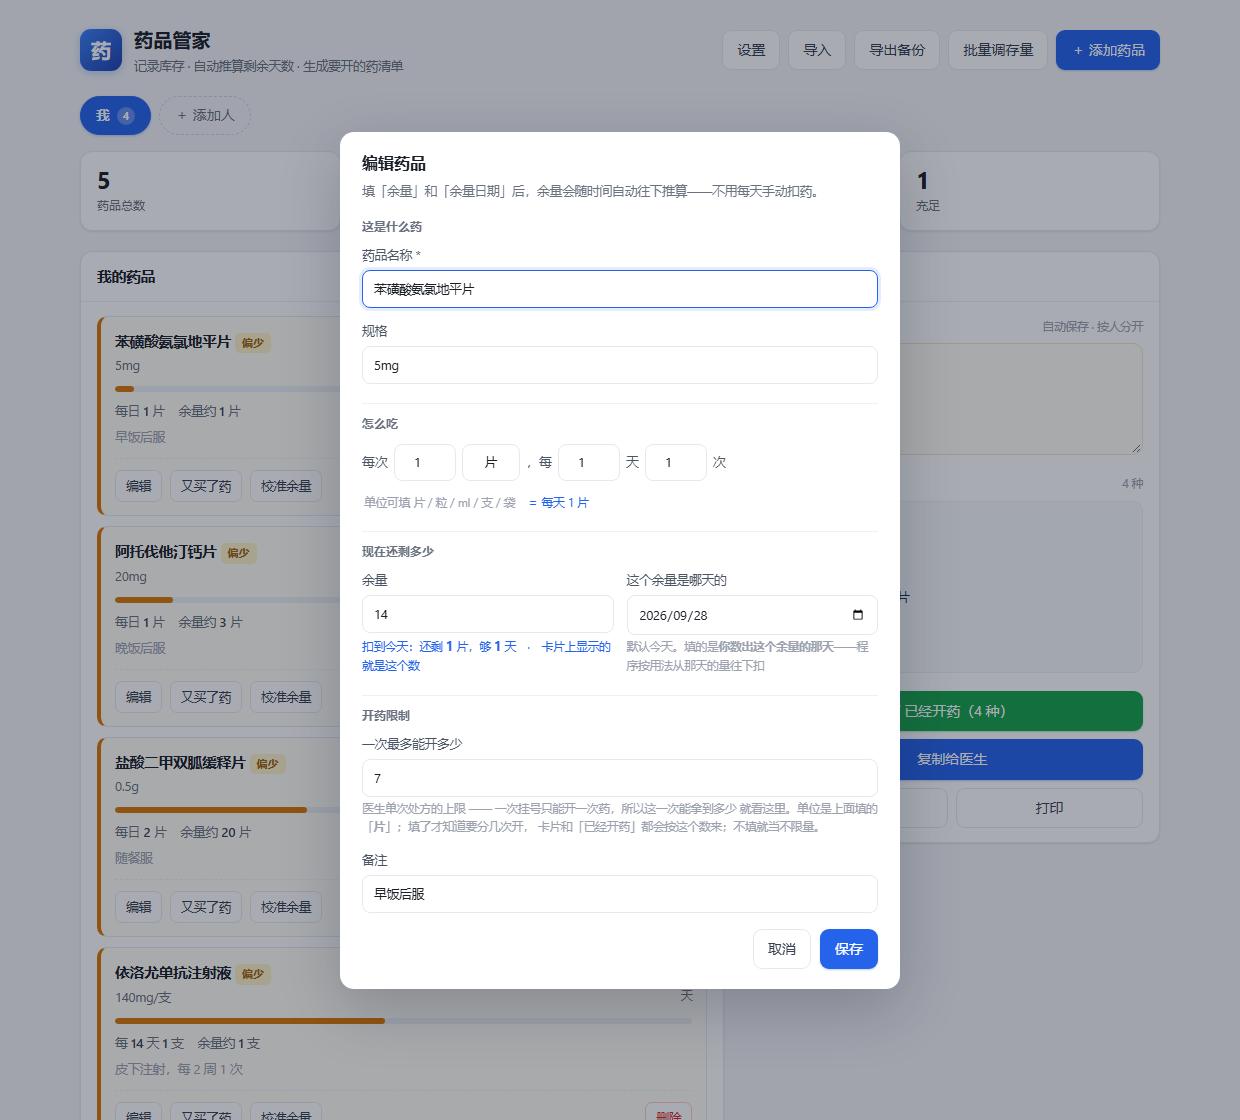
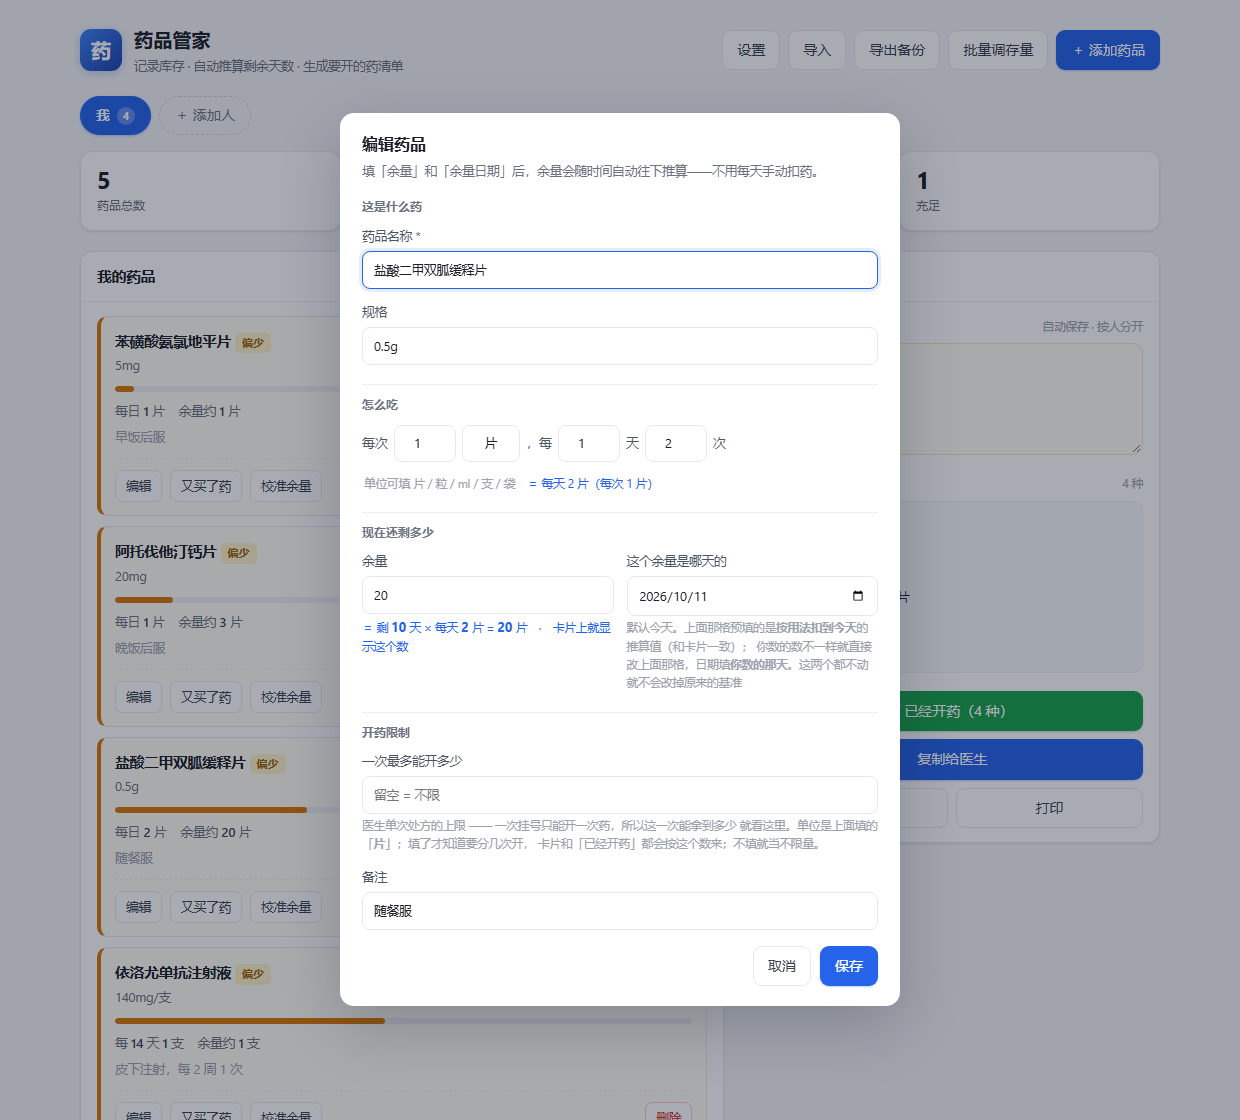
sync: 2026-10-11 16:36

Changed region(s): [[0.2758, 0.0938, 0.7355, 0.625], [0.2758, 0.625, 0.7048, 0.8438], [0.2758, 0.8125, 0.7355, 0.9062]]

diff --git a/index.html b/index.html
@@ -357,7 +357,8 @@ dialog::backdrop{background:rgba(15,23,42,.36)}
         </label>
         <label>这个余量是哪天的
           <input name="stockDate" type="date">
-          <span class="hintline">默认今天。填的是<b>你数出这个余量的那天</b>——程序按用法从那天的量往下扣</span>
+          <span class="hintline">默认今天。上面那格预填的是<b>按用法扣到今天</b>的推算值（和卡片一致）；
+            你数的数不一样就直接改上面那格，日期填<b>你数的那天</b>。这两个都不动就不会改掉原来的基准</span>
         </label>
 
         <div class="sec-title">开药限制</div>
@@ -631,7 +632,13 @@ function dosesUsed(m){
   if(c.times <= 0) return 0;
   return Math.floor(daysSince(m.stockDate) / c.days) * c.times;
 }
-// 当前推算余量 = 基准余量 - 已经用掉的次数 × 每次用量
+// 当前推算余量 = 基准余量 - 已经用掉的次数 × 每次用量。
+// ★ 这是**唯一的口径**：卡片上的「余量约 X」、开药弹窗的「现有约 X」、「又买了药 / 校准余量」
+//   的推算值、编辑弹窗里预填的「余量」，全都用这一个数（2026-10-11 用户要求：把卡片上的数和
+//   编辑里的数同步）。它的值就是**你今天实际还剩多少**，不去取整、不丢零头。
+//   「剩 N 天」是它除以每天用量后向下取整的结果，所以当天数写整数时两者不一定正好乘得回去
+//   （4 片 / 每天 2 片 → 正好 2 天；5 片 / 每天 2 片 → 写 2 天多）——
+//   编辑弹窗里会把算式或「多」字直接写出来，不让人猜。
 function stockNow(m){
   const base = num(m.stockBase);
   if(dailyUse(m) <= 0) return round2(base);           // 没设用法就不递减
@@ -898,8 +905,12 @@ function renderNote(force){
 }
 
 /* -------------------- 操作 -------------------- */
+// 打开编辑时记下「原来的基准」和「预填进去的值」，保存时用来判断你动没动这一节（见 submitMed）
+let editAnchor = null;
+
 function openEditor(id){
   editingId = id || null;
+  editAnchor = null;
   const f = $('#formMed');
   f.reset();
   if(id){
@@ -914,8 +925,18 @@ function openEditor(id){
     // timesPerDay 是改名前的老字段，老存档读进来照样对
     f.timesPerCycle.value = (m.timesPerCycle != null) ? m.timesPerCycle
       : (m.timesPerDay != null ? m.timesPerDay : 1);
-    f.stockBase.value = m.stockBase != null ? m.stockBase : 0;
-    f.stockDate.value = m.stockDate || todayStr();
+    // ★ 2026-10-11 用户要求：「现在还剩多少」这一节要显示**扣到今天**的数（和卡片同一个数），
+    //   而不是你当初数出来的基准数 —— 否则点开编辑看见 14、卡片上写 2 天，怎么算都对不上。
+    //   原来那个基准（量 + 那天）没有丢：存进 editAnchor，只要你不改这两格，保存时原样写回。
+    const preQty = stockNow(m);
+    editAnchor = {
+      base: m.stockBase != null ? m.stockBase : 0,
+      date: m.stockDate || todayStr(),
+      pre: String(preQty),
+      preDate: todayStr()
+    };
+    f.stockBase.value = preQty;
+    f.stockDate.value = todayStr();
     f.rxMax.value = num(m.rxMax) > 0 ? m.rxMax : '';
     f.note.value = m.note || '';
   } else {
@@ -963,11 +984,10 @@ function syncDosePreview(){
 }
 
 // 「现在还剩多少」下面那行实时结果。
-// ★ 为什么要这一行（2026-10-11 用户报的 bug）：
-//   这里填的「余量 + 日期」是**你当时数出来的基准数**，而卡片右上角的天数 / 卡片上的
-//   「余量约 X」是按用法**扣到今天**的结果 —— 两个数天然不等。用户点开编辑看见 14、
-//   卡片却写 1 天，就以为程序算错了。把这句「扣到今天还剩 X、够 Y 天（卡片上就是这个数）」
-//   当场算给用户看，两个口径当场对上，不用他自己换算。
+// ★ 为什么要有这一行（2026-10-11 用户两次报 bug 后定稿）：
+//   用户对账的方式是**乘回去** —— 「剩 2 天、每次 2 片、每天 3 次，那余量应该是 2×2×3=12」。
+//   所以这一行必须和卡片写同一个数（预填进上面那格的就是它），能整除时还把算式**摆出来**，
+//   不能整除时明写「N 天多一点」，绝不出现「卡片 5 片 / 这里说 2×2=4」这种自相矛盾的摆法。
 function syncStockPreview(){
   const f = $('#formMed');
   const el = $('#stockPreview');
@@ -982,7 +1002,8 @@ function syncStockPreview(){
     stockBase: base,
     stockDate: f.stockDate.value || todayStr()
   };
-  if(dailyUse(m) <= 0){
+  const d = dailyUse(m);
+  if(d <= 0){
     el.textContent = '没设用法 → 不会自动往下扣，卡片上直接显示这个数';
     return;
   }
@@ -991,9 +1012,26 @@ function syncStockPreview(){
     return;
   }
   const st = stockNow(m);
-  const dl = daysLeft(m);
-  el.innerHTML = '扣到今天：还剩 <b>' + fmtNum(st) + '</b> ' + esc(u)
-    + '，够 <b>' + fmtDays(dl) + '</b> 天　·　卡片上显示的就是这个数';
+  const days = st / d;
+  const whole = Math.max(0, Math.floor(days + 1e-9));
+  const c = cycle(m);
+  // 正好是整天份 → 把算式摆出来给你核：剩 2 天 × 每天 2 片 = 4 片
+  // 不是整天份 → 老实写「N 天多」，不让两个数看起来互相打架
+  const exactMult = Math.abs(st - whole * d) < 1e-6;
+  let line;
+  if(days < 1){
+    line = '扣到今天：还剩 <b>' + fmtNum(st) + '</b> ' + esc(u) + '（不够 1 整天）';
+  } else if(exactMult){
+    line = (c.days === 1)
+      ? '＝ 剩 <b>' + whole + '</b> 天 × 每天 <b>' + fmtNum(round2(d)) + '</b> ' + esc(u)
+        + ' = <b>' + fmtNum(st) + '</b> ' + esc(u)
+      : '＝ 剩 <b>' + whole + '</b> 天 ÷ <b>' + c.days + '</b> 天 × <b>'
+        + fmtNum(num(m.perDose) * c.times) + '</b> ' + esc(u) + ' = <b>' + fmtNum(st) + '</b> ' + esc(u);
+  } else {
+    line = '扣到今天：还剩 <b>' + fmtNum(st) + '</b> ' + esc(u)
+      + '，够 <b>' + whole + '</b> 天多一点（除下来不是整天）';
+  }
+  el.innerHTML = line + '　·　卡片上就显示这个数';
 }
 
 function submitMed(e){
@@ -1017,11 +1055,25 @@ function submitMed(e){
 
   if(editingId){
     const i = meds.findIndex(function(x){ return x.id === editingId; });
-    if(i >= 0) meds[i] = Object.assign({}, meds[i], obj);
+    if(i >= 0){
+      const next = Object.assign({}, meds[i], obj);
+      // ★ 「余量 / 日期」两格没被动过 → 把**原来的基准**原样写回。
+      //   为什么必须这样：那两格预填的是「扣到今天」的推算值，直接存下去会顺带把基准日滚到今天，
+      //   不满一天的零头会被抹掉，间隔用药的相位（每 14 天一次该从哪天算）也会整体平移。
+      //   只在「你确实改了余量或日期」时才按你填的存。
+      if(editAnchor
+         && Math.abs(num(f.stockBase.value) - num(editAnchor.pre)) < 1e-9
+         && (f.stockDate.value || todayStr()) === editAnchor.preDate){
+        next.stockBase = editAnchor.base;
+        next.stockDate = editAnchor.date;
+      }
+      meds[i] = next;
+    }
   } else {
     obj.id = uid();
     meds.push(obj);
   }
+  editAnchor = null;
   save(); render();
   $('#dlgMed').close();
 }
@@ -1118,7 +1170,8 @@ function calibMed(id){
   if(!m) return;
   const unit = m.unit || '片';
   const cur = stockNow(m);
-  const input = prompt('今天实际还剩多少 ' + unit + '？\n\n（系统推算 ' + fmtNum(cur) + ' ' + unit + '，改成你数出来的数）', String(cur));
+  const input = prompt('今天实际还剩多少 ' + unit + '？\n\n（系统推算 ' + fmtNum(cur) + ' ' + unit
+    + '，改成你数出来的数）', String(cur));
   if(input === null) return;
   const v = Number(input);
   if(!isFinite(v) || v < 0){ alert('请输入 0 或正数'); return; }

diff --git a/_check/test_rxcap.py b/_check/test_rxcap.py
@@ -292,59 +292,124 @@ PROBE = r"""
   ck('批量加完后 stockNow == stockBase（基准日=今天，没被重复扣）',
      byName('维生素D滴剂').stockBase === stockNow(byName('维生素D滴剂')), '');
 
-  // ---- 8. ★ 2026-10-11 用户报的 bug：卡片右上角的天数 / 余量，与点「编辑」后
-  //      「现在还剩多少」那节看到的数必须对得上 ----
-  // 根因：那里存的是**你当时数出来的基准数 + 那天**，卡片上是**按用法扣到今天**的结果，
-  //   两个数天生不等；而界面从来没把「扣到今天是多少」显示出来 → 用户以为程序算错了。
-  // 修法：加一行实时结果 #stockPreview，走的是和卡片完全同一个函数（stockNow/daysLeft）。
+  // ---- 8. ★ 2026-10-11 用户两次报 bug 后的定稿口径 ----
+  // 用户原话：「卡片上显示的 每日2片 余量约4片 这个4片就是正确的，你把卡片上的数和编辑里的数同步」。
+  // 也就是说：**卡片上的数（stockNow）是唯一口径**，编辑弹窗要预填它、显示同一个数；
+  // 弹窗里原来显示的是「你当初数出来的基准数」，那才是对不上的根源。
+  // 能整除时把算式摆出来（剩 2 天 × 每天 2 片 = 4 片），不整除时明写「N 天多一点」。
   var demo3 = [
     { name:'编弹窗对账片', spec:'5mg', perDose:1, unit:'片', cycleDays:1, timesPerCycle:1,
       stockBase:14, stockDate:agoD(13) },                        // 扣到今天 = 1 片 / 剩 1 天
+    { name:'每日两片对账', spec:'5mg', perDose:2, unit:'片', cycleDays:1, timesPerCycle:1,
+      stockBase:4, stockDate:todayStr() },                       // 用户举的例子：每日 2 片、4 片 = 2 天
+    { name:'三次两片对账', spec:'5mg', perDose:2, unit:'片', cycleDays:1, timesPerCycle:3,
+      stockBase:12, stockDate:todayStr() },                      // 每次 2 片×每天 3 次 → 12 片 = 2 天
+    { name:'零头对账片', spec:'5mg', perDose:2, unit:'片', cycleDays:1, timesPerCycle:1,
+      stockBase:5, stockDate:todayStr() },                       // 5 片 ÷ 每天 2 片 → 2 天多一点
+    { name:'半天对账片', spec:'5mg', perDose:2, unit:'片', cycleDays:1, timesPerCycle:1,
+      stockBase:1, stockDate:todayStr() },                       // 1 片 < 每天 2 片 → 不够 1 整天
     { name:'没设用法片', spec:'—', perDose:1, unit:'片', cycleDays:1, timesPerCycle:0,
       stockBase:30, stockDate:todayStr() }                       // 没设用法 → 不递减
   ];
   demo3.forEach(function(d){ d.id = uid(); });
   setMeds(demo3); save(); render();
 
-  var c3 = card('编弹窗对账片');
-  var cardDay = c3 ? c3.querySelector('.days .v').textContent.trim() : '(无卡片)';
-  var mtxt = c3 ? c3.querySelector('.med-meta').textContent.replace(/\s+/g, ' ') : '';
-  var mq = mtxt.match(/余量约\s*([\d.]+)/);
-  var cardQty = mq ? mq[1] : '(没匹配到)';
-  ck('卡片右上角天数 = 1（14 片扣 13 天）', cardDay === '1', cardDay);
-  ck('卡片「余量约」= 1', cardQty === '1', cardQty);
+  function mday(name){
+    var c = card(name);
+    return c ? c.querySelector('.days .v').textContent.trim() : '(无卡片)';
+  }
+  function mqty(name){
+    var c = card(name);
+    if(!c) return '(无卡片)';
+    var mt = c.querySelector('.med-meta').textContent.replace(/\s+/g, ' ');
+    var mm = mt.match(/余量约\s*([\d.]+)/);
+    return mm ? mm[1] : '(没匹配到)';
+  }
+  function prevTxt(){
+    var el = q('#stockPreview');
+    return el ? el.textContent.replace(/\s+/g, ' ').trim() : '(无 #stockPreview)';
+  }
 
-  openEditor(byName('编弹窗对账片').id);
+  ck('卡片 对账片 = 1 片 / 1 天（14 片扣 13 天）',
+     mqty('编弹窗对账片') === '1' && mday('编弹窗对账片') === '1',
+     mqty('编弹窗对账片') + ' / ' + mday('编弹窗对账片'));
+  ck('卡片 每日 2 片 · 余量约 4 片 · 2 天（用户说的那个例子）',
+     mqty('每日两片对账') === '4' && mday('每日两片对账') === '2',
+     mqty('每日两片对账') + ' / ' + mday('每日两片对账'));
+  ck('卡片 每次 2 片 × 每天 3 次 · 12 片 · 2 天',
+     mqty('三次两片对账') === '12' && mday('三次两片对账') === '2',
+     mqty('三次两片对账') + ' / ' + mday('三次两片对账'));
+  ck('卡片 5 片 ÷ 每天 2 片 → 2 天（余量如实写 5，不取整）',
+     mqty('零头对账片') === '5' && mday('零头对账片') === '2',
+     mqty('零头对账片') + ' / ' + mday('零头对账片'));
+  ck('卡片 1 片 < 每天 2 片 → 天数写「不足 1」',
+     mday('半天对账片') === '不足 1' && mqty('半天对账片') === '1',
+     mday('半天对账片') + ' / ' + mqty('半天对账片'));
+
+  // --- 8a. 弹窗预填 = 卡片数，并把算式摆出来 ---
+  openEditor(byName('每日两片对账').id);
   var fmed = q('#formMed');
-  var prev = q('#stockPreview') ? q('#stockPreview').textContent.replace(/\s+/g, ' ').trim()
-                                : '(无 #stockPreview)';
-  ck('弹窗里有「现在还剩多少」的实时结果行', !!q('#stockPreview'), prev);
-  ck('弹窗里的「余量」仍是你当时数的基准数（没被偷偷改写）',
-     Math.abs(num(fmed.stockBase.value) - 14) < 1e-9, fmed.stockBase.value);
-  ck('实时结果里的余量 = 卡片的余量', prev.indexOf('还剩 1 片') >= 0, prev);
-  ck('实时结果里的天数 = 卡片的天数', /够\s*1\s*天/.test(prev), prev);
-  ck('实时结果点明「和卡片同一个数」', prev.indexOf('卡片上显示的就是这个数') >= 0, prev);
+  ck('弹窗里有「现在还剩多少」的实时结果行', !!q('#stockPreview'), prevTxt());
+  ck('弹窗「余量」预填 = 卡片上的 4',
+     Math.abs(num(fmed.stockBase.value) - 4) < 1e-9, fmed.stockBase.value);
+  ck('弹窗摆出算式：剩 2 天 × 每天 2 片 = 4 片',
+     /＝\s*剩\s*2\s*天\s*×\s*每天\s*2\s*片\s*=\s*4\s*片/.test(prevTxt()), prevTxt());
+  ck('弹窗点明「卡片上就显示这个数」', prevTxt().indexOf('卡片上就显示这个数') >= 0, prevTxt());
 
-  // 实时性：把「这个余量是哪天的」改成今天，结果必须跟着变成 14 片 / 14 天
-  fmed.stockDate.value = todayStr();
+  openEditor(byName('三次两片对账').id);
+  ck('每次 2 片×每天 3 次：弹窗预填 12 = 卡片 12',
+     Math.abs(num(fmed.stockBase.value) - 12) < 1e-9, fmed.stockBase.value);
+  ck('算式按每天总用量写：剩 2 天 × 每天 6 片 = 12 片',
+     /＝\s*剩\s*2\s*天\s*×\s*每天\s*6\s*片\s*=\s*12\s*片/.test(prevTxt()), prevTxt());
+  q('#dlgMed').close();
+
+  // --- 8b. 只改别的项 → 原来的基准（量 + 那天）原样保留，不许被预填值顶掉 ---
+  openEditor(byName('编弹窗对账片').id);
+  ck('弹窗预填的是扣到今天的 1 片（不是当初的基准 14）',
+     Math.abs(num(fmed.stockBase.value) - 1) < 1e-9, fmed.stockBase.value);
+  fmed.note.value = '只改备注';
+  submitMed({ preventDefault: function(){} });
+  var keep = byName('编弹窗对账片');
+  ck('只改备注 → 基准仍是 14 片 / 13 天前（没被预填值顶掉）',
+     keep.stockBase === 14 && keep.stockDate === agoD(13),
+     keep.stockBase + ' / ' + keep.stockDate);
+
+  // 实时性：把「余量」那格直接改成 14（基准日=今天）→ 算式当场变成 14 片 / 14 天
+  openEditor(byName('编弹窗对账片').id);
+  fmed.stockBase.value = 14;
   syncStockPreview();
-  var prev2 = q('#stockPreview').textContent.replace(/\s+/g, ' ').trim();
-  ck('改成今天 → 实时结果跟着变 14 片 / 14 天',
-     /还剩\s*14\s*片/.test(prev2) && /够\s*14\s*天/.test(prev2), prev2);
-  fmed.stockDate.value = agoD(13);
-  syncStockPreview();
-  ck('改回 13 天前 → 结果复原 1 片 / 1 天',
-     /还剩\s*1\s*片/.test(q('#stockPreview').textContent), q('#stockPreview').textContent);
+  ck('弹窗里改成 14 → 当场变 14 片 / 14 天',
+     /＝\s*剩\s*14\s*天\s*×\s*每天\s*1\s*片\s*=\s*14\s*片/.test(prevTxt()), prevTxt());
+  q('#dlgMed').close();
+
+  // --- 8c. 真改了余量 → 存你填的数，基准日滚到今天 ---
+  openEditor(byName('编弹窗对账片').id);
+  fmed.stockBase.value = 4;
+  submitMed({ preventDefault: function(){} });
+  keep = byName('编弹窗对账片');
+  ck('改了余量 → 存 4 片 / 基准今天',
+     keep.stockBase === 4 && keep.stockDate === todayStr(),
+     keep.stockBase + ' / ' + keep.stockDate);
+  ck('改完卡片同步成 4 片 / 4 天',
+     mqty('编弹窗对账片') === '4' && mday('编弹窗对账片') === '4',
+     mqty('编弹窗对账片') + ' / ' + mday('编弹窗对账片'));
+
+  // --- 8d. 除不尽 / 不足一天：不许摆出对不上的算式 ---
+  openEditor(byName('零头对账片').id);
+  ck('除不尽 → 写「够 2 天多一点」，不摆算式',
+     /够\s*2\s*天多一点/.test(prevTxt()) && prevTxt().indexOf('×') < 0, prevTxt());
+  openEditor(byName('半天对账片').id);
+  ck('不足一天 → 明说「不够 1 整天」',
+     /不够\s*1\s*整天/.test(prevTxt()), prevTxt());
+  q('#dlgMed').close();
 
   // 没设用法：明说「不会自动往下扣」，不能显示成「够 0 天」
   openEditor(byName('没设用法片').id);
-  var prev3 = q('#stockPreview').textContent.replace(/\s+/g, ' ').trim();
-  ck('没设用法 → 明说不自动扣，卡片就是原数', /不会自动往下扣/.test(prev3), prev3);
+  ck('没设用法 → 明说不自动扣，卡片就是原数', /不会自动往下扣/.test(prevTxt()), prevTxt());
   // 新增（还没保存过）的药：给填写提示，不许出现「够 0 天」这种吓人的字
   openEditor(null);
-  var prev4 = q('#stockPreview').textContent.replace(/\s+/g, ' ').trim();
   ck('新增药品时给的是填写提示，不是「够 0 天」',
-     prev4.length > 0 && prev4.indexOf('够') < 0, prev4);
+     prevTxt().length > 0 && prevTxt().indexOf('够') < 0, prevTxt());
   q('#dlgMed').close();
 
   R.meds = meds.map(function(x){ return x.name + '|qty=' + dispQty(x) + '|cap=' + rxCap(x); });

diff --git a/_check/shot.py b/_check/shot.py
@@ -46,8 +46,10 @@ HOOKS = {
     "disp": "openDisp();",
     "bulk": "openBulk();",
     # ★ 编辑弹窗也留一张：为的是把「现在还剩多少」那行实时结果拍下来 ——
-    #   卡片右上角「1 天」和这里的「扣到今天：还剩 1 片，够 1 天」必须一致（用户 2026-10-11 报的 bug）
-    "edit": "openEditor(meds[0].id);",
+    #   预填的「余量」和算式必须与卡片同一个数（用户 2026-10-11 报的 bug：
+    #   弹窗里原来显示的是当初数出来的基准数，跟卡片上扣到今天的数对不上）。
+    #   挑「每天 2 片」那味拍，算式才有说服力：剩 10 天 × 每天 2 片 = 20 片。
+    "edit": "openEditor(meds[2].id);",
 }
 
 

diff --git a/README.md b/README.md
@@ -99,10 +99,17 @@
 | 数了一遍，和程序算的对不上 | 卡片上的「**校准余量**」，直接填数出来的数 |
 | **一批药一起买的**（或一起漏吃了几天） | 顶部「**批量调存量**」 |
 
-> **两个数不一样是正常的**：编辑弹窗里的「余量」是**你当时数出来的基准数**，
-> 卡片上（和弹窗里那行实时结果）是**按用法扣到今天之后**的数 —— 中间那些天已经吃掉了。
-> 所以弹窗里把这笔账当场算给你看：`扣到今天：还剩 1 片，够 1 天 · 卡片上显示的就是这个数`。
-> 你填的基准数和日期**不会被偷偷改写**，只是被自动往下扣。
+> **卡片上和编辑弹窗里是同一个数**：点开「编辑」，那格「余量」预先填好的就是**按用法扣到今天**
+> 之后还剩多少 —— 也就是卡片上「余量约 X」那个 X，不用自己做减法。能整除时弹窗还会把算式摆出来：
+>
+> ```
+> ＝ 剩 10 天 × 每天 2 片 = 20 片 · 卡片上就显示这个数
+> ```
+>
+> 除不尽时（5 片 ÷ 每天 2 片）就老实写「够 2 天多一点」，不会摆出一个乘不回去的算式。
+>
+> 你当初数出来的**基准数和日期不会被偷偷改写** —— 只改备注、规格、用法这类别的项时，
+> 保存会把原来的基准原样写回；只有当你**确实动了「余量」或它的日期**，才按你填的存、并把基准日滚到今天。
 
 ![编辑药品](docs/screenshot-edit.png)
 
@@ -138,7 +145,7 @@
 
 ```
 index.html            程序本体：单文件，拷走就能跑
-_check/test_rxcap.py  自检脚本 —— 无头 Chrome 跑 82 项断言（口径、入库、文案、批量调存量、弹窗对账）
+_check/test_rxcap.py  自检脚本 —— 无头 Chrome 跑 91 项断言（口径、入库、文案、批量调存量、弹窗对账）
 _check/shot.py        重新生成 docs/ 里的截图
 docs/                 README 用的截图
 ```
@@ -150,7 +157,7 @@ python _check/test_rxcap.py
 ```
 
 它会用无头 Chrome 打开一份临时副本（数据由脚本临时注入，不会写回 `index.html`），
-把 82 条断言的通过情况打印出来，退出码非 0 就是有回归。
+把 91 条断言的通过情况打印出来，退出码非 0 就是有回归。
 
 > 程序内**没有内置示例数据**，打开就是空药箱 —— 示例数据里带着病情描述，不该跟着代码分发。
 
